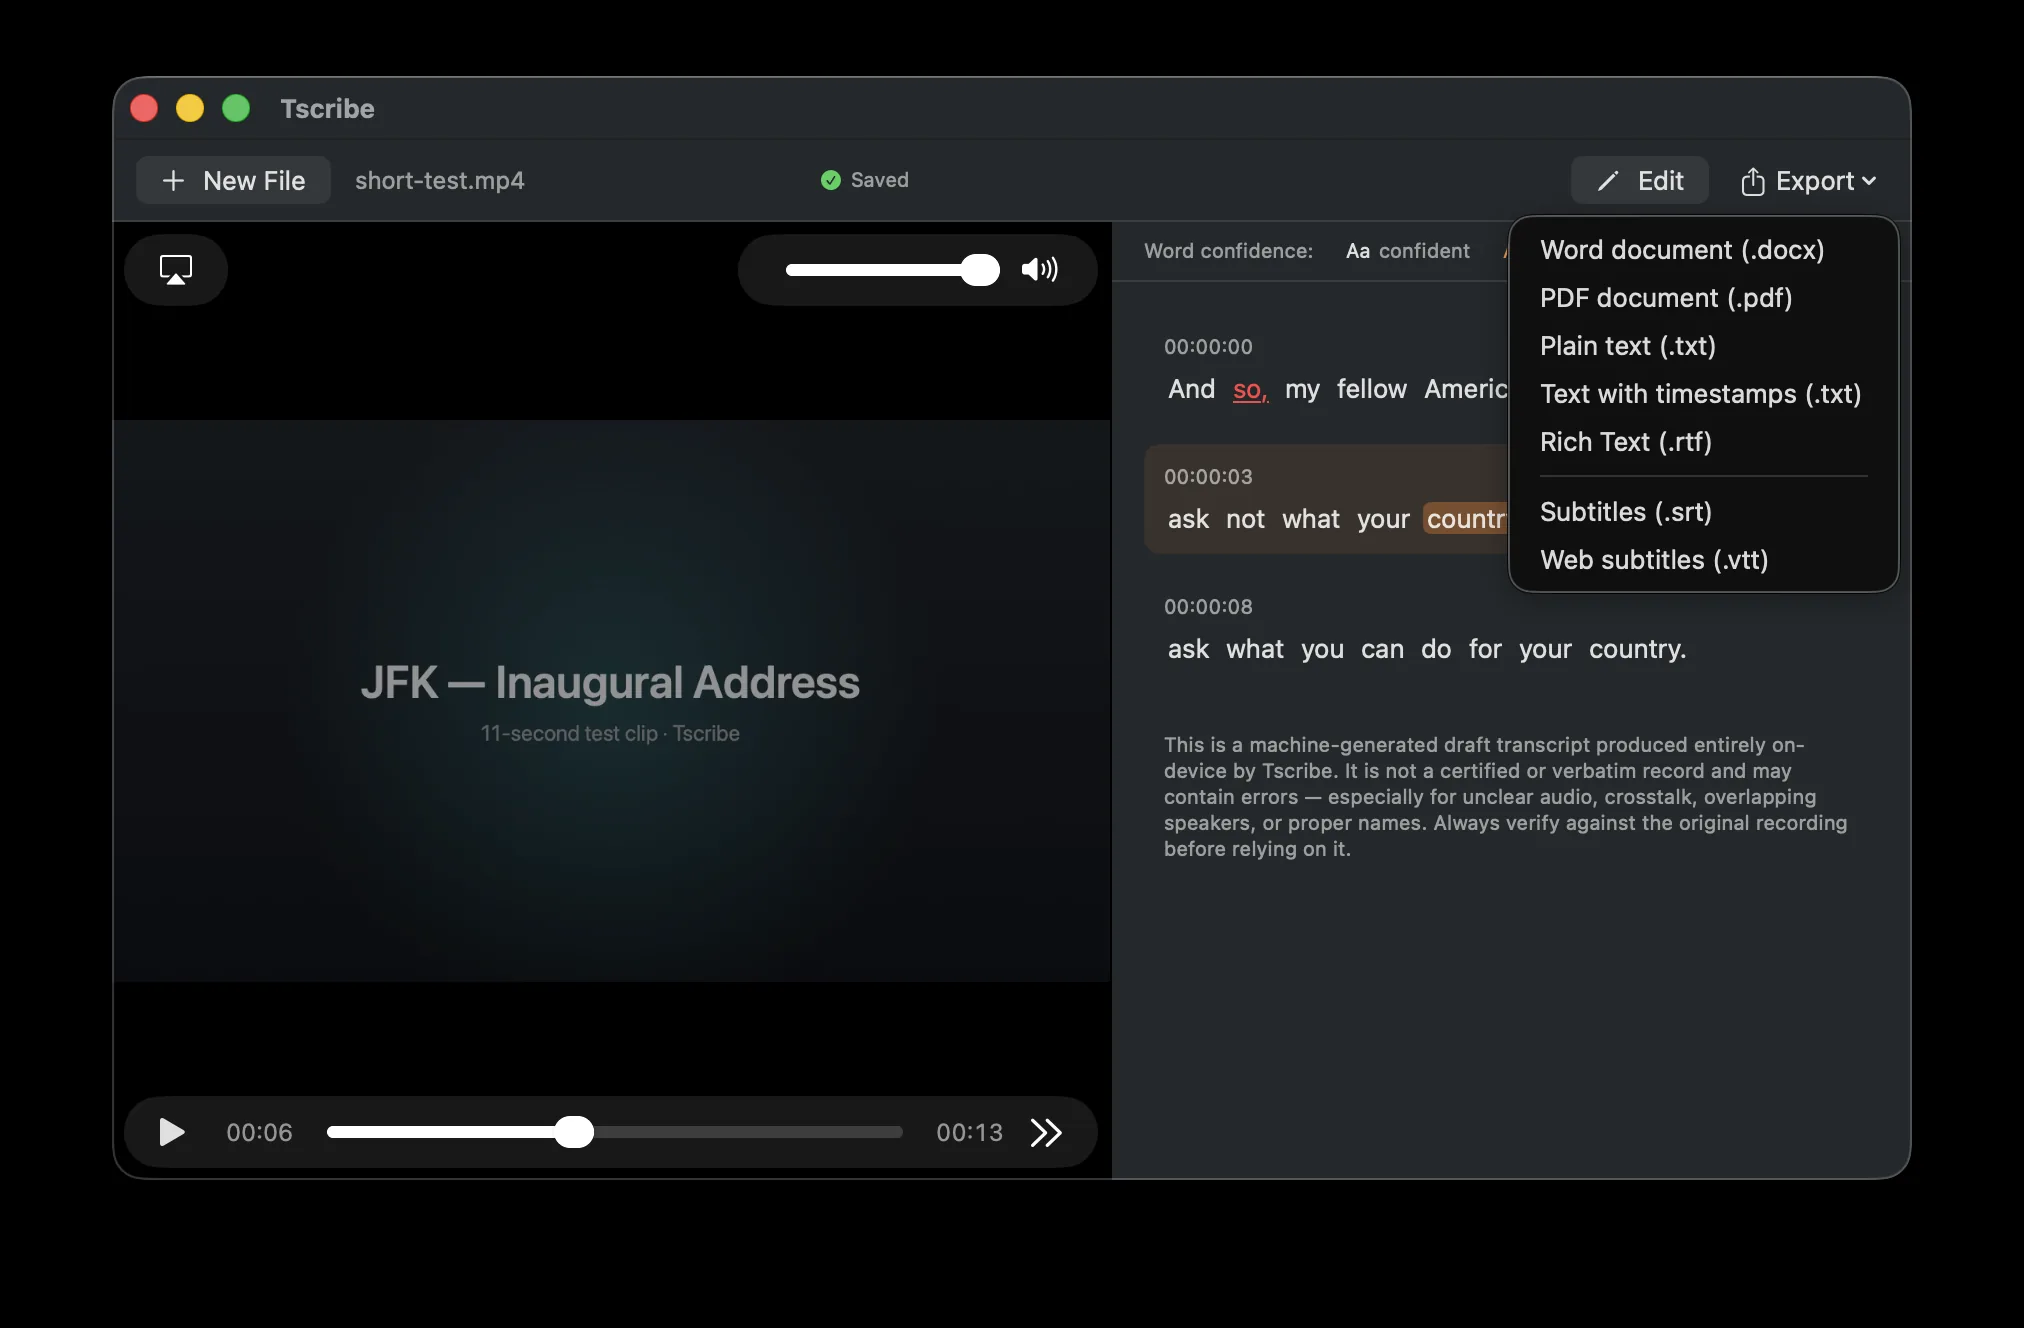
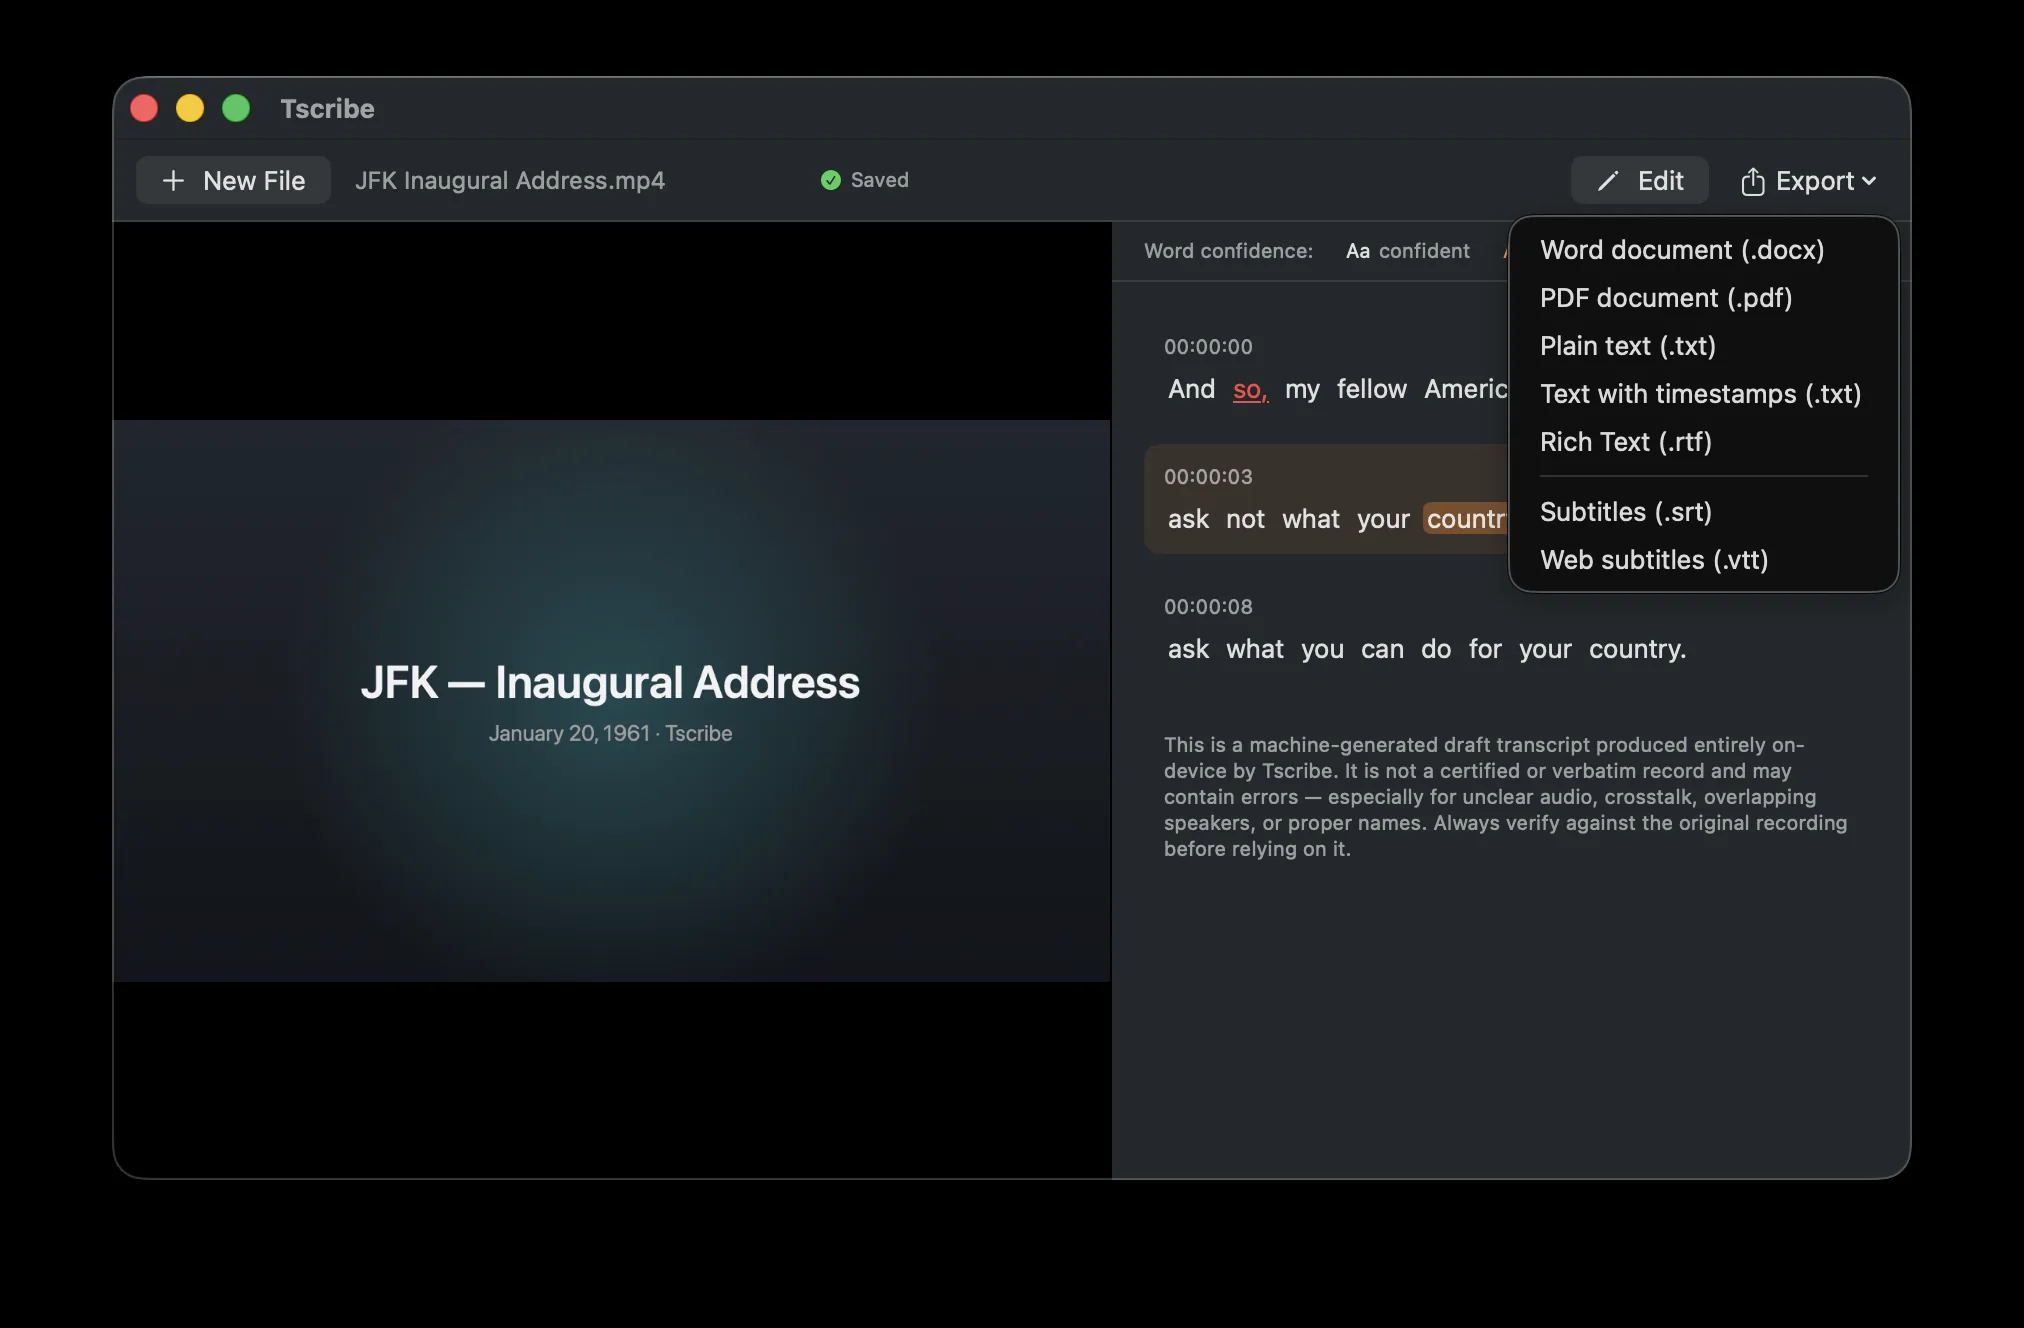
Tscribe: expand gallery to 6 real shots; drop short-clip duplicate
Swap the short-clip transcript shot for the long-recording one and add
the transcribing, onboarding, and model-download screens, giving a
balanced 2x3 walkthrough: import -> transcribe -> transcript -> export
-> setup -> download. Reconcile the model size to 3.1 GB (matching the
app's own onboarding/download screens) in the editions and install copy.

diff --git a/tscribe/index.html b/tscribe/index.html
@@ -363,8 +363,14 @@
           <figcaption>Drag-and-drop import</figcaption>
         </figure>
         <figure class="shot">
-          <button type="button" class="shot-open" aria-label="View a larger screenshot: word timestamps and confidence coloring">
-            <img src="../assets/tscribe/screenshot-02-transcribe.webp" alt="A Tscribe transcript with per-word timestamps and words color-coded by confidence" width="2024" height="1328">
+          <button type="button" class="shot-open" aria-label="View a larger screenshot: on-device transcription in progress">
+            <img src="../assets/tscribe/screenshot-04-transcribing.webp" alt="Tscribe transcribing a video on-device, with a progress bar at 85 percent" width="2024" height="1328">
+          </button>
+          <figcaption>On-device transcription</figcaption>
+        </figure>
+        <figure class="shot">
+          <button type="button" class="shot-open" aria-label="View a larger screenshot: transcript with word timestamps and confidence coloring">
+            <img src="../assets/tscribe/screenshot-05-transcript-full.webp" alt="A Tscribe transcript of a full recording with per-word timestamps and words color-coded by confidence" width="2024" height="1328">
           </button>
           <figcaption>Word timestamps &amp; confidence coloring</figcaption>
         </figure>
@@ -373,6 +379,18 @@
             <img src="../assets/tscribe/screenshot-03-export.webp" alt="Tscribe's export menu — Word, PDF, Rich Text, plain text, SRT, and VTT" width="2024" height="1328">
           </button>
           <figcaption>Export to Word, PDF, subtitles &amp; more</figcaption>
+        </figure>
+        <figure class="shot">
+          <button type="button" class="shot-open" aria-label="View a larger screenshot: one-time model setup">
+            <img src="../assets/tscribe/screenshot-06-onboarding.webp" alt="Tscribe's one-time setup screen offering to download its speech model" width="2024" height="1328">
+          </button>
+          <figcaption>One-time model setup</figcaption>
+        </figure>
+        <figure class="shot">
+          <button type="button" class="shot-open" aria-label="View a larger screenshot: speech-model download">
+            <img src="../assets/tscribe/screenshot-07-download.webp" alt="Tscribe downloading its 3.1 GB speech model with a resumable progress bar" width="2024" height="1328">
+          </button>
+          <figcaption>Downloads once, then fully offline</figcaption>
         </figure>
       </div>
     </div>
@@ -420,7 +438,7 @@
           <span class="edition-badge">Recommended</span>
           <h3>Standard</h3>
           <p class="edition-meta">Tscribe.dmg · ~5&nbsp;MB · from GitHub</p>
-          <p>Downloads its ~2.9&nbsp;GB speech model once on first launch, then runs 100% offline. Best for most people.</p>
+          <p>Downloads its ~3.1&nbsp;GB speech model once on first launch, then runs 100% offline. Best for most people.</p>
           <a class="btn" href="https://github.com/jwmay/tscribe/releases/latest/download/Tscribe.dmg">Download Standard →</a>
         </div>
         <div class="edition">
@@ -443,7 +461,7 @@
         <li><b>Open the downloaded .dmg</b> and drag Tscribe to your Applications folder.</li>
         <li><b>First launch — Control-click, don't double-click.</b> Because Tscribe is open source and not notarized by Apple, a normal double-click shows <em>"Tscribe cannot be opened because it is from an unidentified developer."</em> Instead, <kbd>Control</kbd>-click (or right-click) Tscribe in Applications, choose <b>Open</b>, then click <b>Open</b> in the dialog. You only do this once.</li>
         <li><b>Still blocked? Open it anyway.</b> Go to <b>System Settings → Privacy &amp; Security</b>, scroll to Security, and click <b>Open Anyway</b> next to the Tscribe message — then confirm with Touch&nbsp;ID or your password.</li>
-        <li><b>Let it finish setting up.</b> The first time you open the Standard edition, Tscribe downloads its speech model (~2.9&nbsp;GB) once — keep your Mac online for that first run. Every transcription after that is fully offline. <em>(The Complete edition skips this — the model is already inside.)</em></li>
+        <li><b>Let it finish setting up.</b> The first time you open the Standard edition, Tscribe downloads its speech model (~3.1&nbsp;GB) once — keep your Mac online for that first run. Every transcription after that is fully offline. <em>(The Complete edition skips this — the model is already inside.)</em></li>
       </ol>
       <p class="note"><b>Why the warning?</b> Tscribe isn't code-signed with a paid Apple Developer certificate, so macOS Gatekeeper asks before the first launch. The full source is on GitHub — you can read exactly what it does before you run it.</p>
     </div>